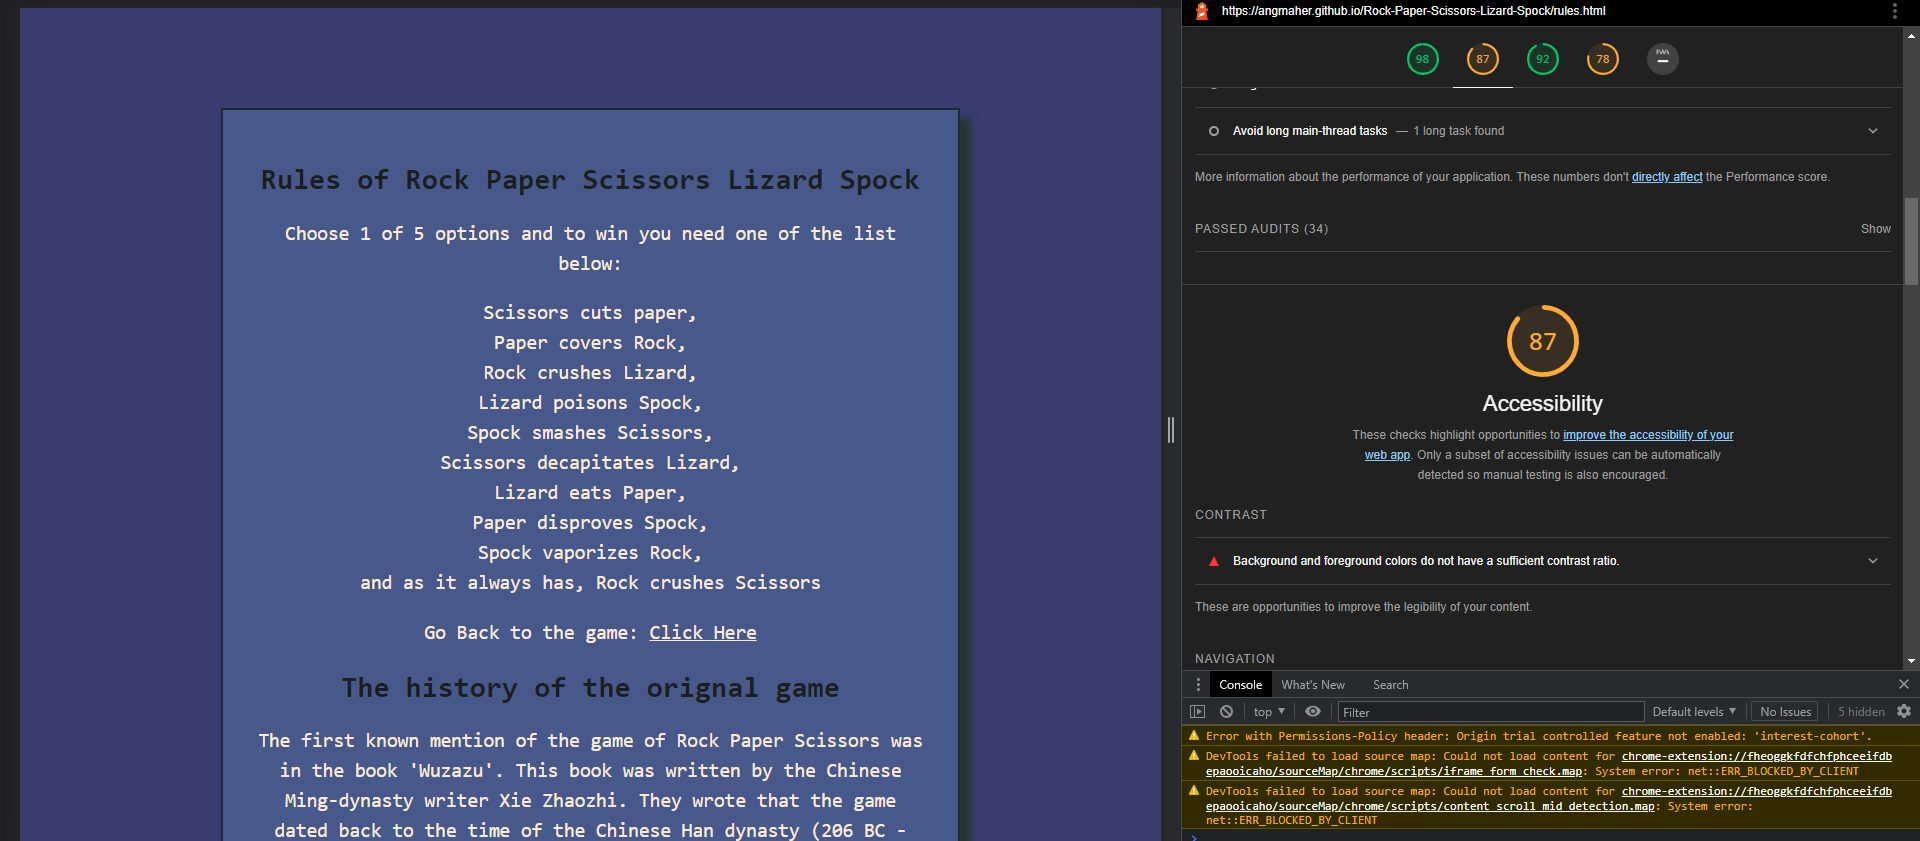
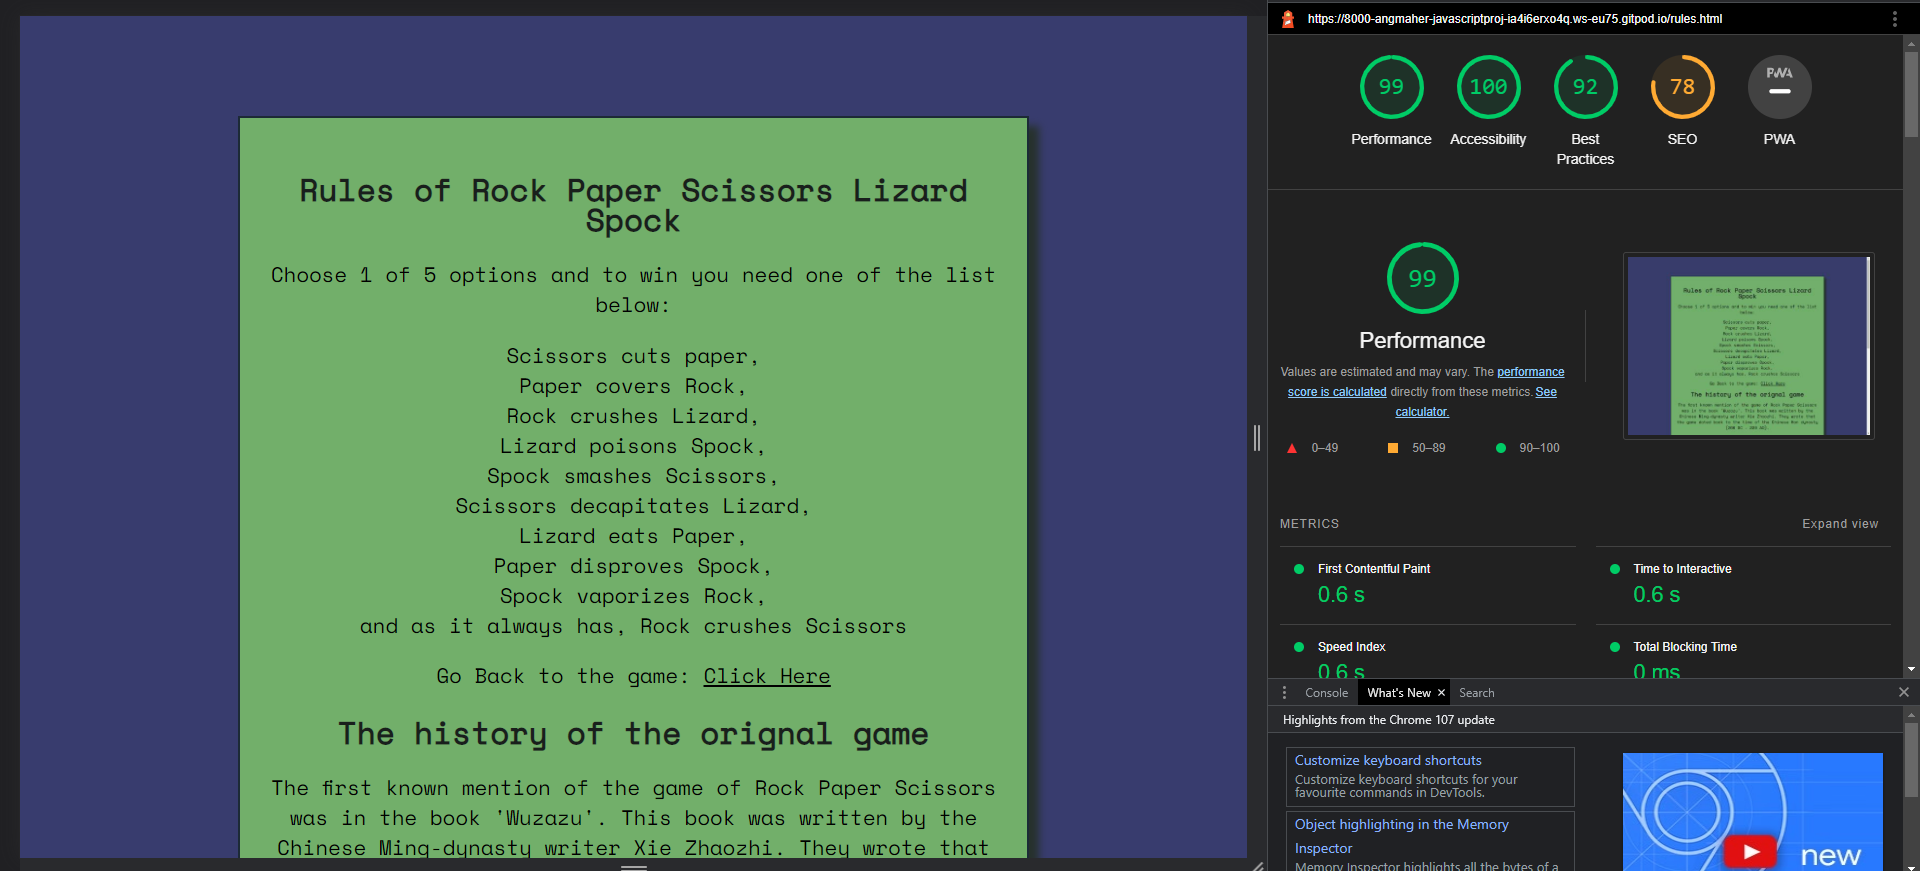
change font colour to black on rules page and background to green to receive a better lighthouse score

diff --git a/rules.html b/rules.html
@@ -19,18 +19,18 @@
             <h2>Rules of Rock Paper Scissors Lizard Spock</h2>
             <p>Choose 1 of 5 options and to win you need one of the list below:</p>
             <p>Scissors cuts paper, <br>Paper covers Rock, <br>Rock crushes Lizard, <br>Lizard poisons Spock, <br>Spock smashes Scissors, <br>Scissors decapitates Lizard, <br>Lizard eats Paper, <br>Paper disproves Spock, <br>Spock vaporizes Rock, <br>and as it always has, Rock crushes Scissors</p>
-            <p>Go Back to the game: <a id= "home-link" href="index.html">Click Here</a></p>
+            <p>Go Back to the game: <a class="home-link" href="index.html">Click Here</a></p>
 
             <h2>The history of the orignal game</h2>
             <p>The first known mention of the game of Rock Paper Scissors was in the book 'Wuzazu'. This book was written by the Chinese Ming-dynasty writer Xie Zhaozhi. They wrote that the game dated back to the time of the Chinese Han dynasty (206 BC - 220 AD).</p>
             <p>It is a hugely popular game all over the world mainly because of its simplicity. The French gave it the name Roshambo.</p>
-            <p>Go Back to the game: <a id= "home-link" href="index.html">Click Here</a></p>
+            <p>Go Back to the game: <a class="home-link" href="index.html">Click Here</a></p>
 
             <h2>Where Did Lizard Spock come from?</h2>
             <p>The Lizard, Spock was added in the TV show The Big Bang Theory</p>
 
             <iframe width="400" height="300" src="https://www.youtube.com/embed/Kov2G0GouBw" title="Rock Paper scissors  Lizard Spock" frameborder="0" allow="accelerometer; autoplay; clipboard-write; encrypted-media; gyroscope; picture-in-picture" allowfullscreen></iframe>
-            <p>Go Back to the game: <a id= "home-link" href="index.html">Click Here</a></p>
+            <p>Go Back to the game: <a class="home-link" href="index.html">Click Here</a></p>
         </div>
         <footer>Developed By Angela Maher for Code Institute's Portfolio Project 2 - 2022</footer>
 </body>

diff --git a/assets/css/style.css b/assets/css/style.css
@@ -120,7 +120,7 @@ footer{
 }
 /*Rules of the game page*/
 #rules-section{
-    background-color: #47598a;
+    background-color: rgba(126, 199, 106, 0.822);
     height: 1600px;
     width: 30%;
 
@@ -131,7 +131,7 @@ footer{
     padding: 30px;
 
     text-align: center;
-    color:antiquewhite;
+    color: black;
     font-size: 130%;
     line-height: 30px;
 
@@ -139,10 +139,10 @@ footer{
 #rules-section h2{
     color:#191f1c;
 }
-#home-link {
-    color:antiquewhite;
+.home-link {
+    color: black;
 }
-#home-link:hover{
+.home-link:hover{
     background-color: rgb(38, 49, 44, .8);
 }
 /*Media quries section*/

diff --git a/testing.md b/testing.md
@@ -33,9 +33,9 @@
 * Checked in JSHint with no errors
 
 ### Lighthouse
-* Lighthouse result for main page recieved 100%
+* Lighthouse result for main page received 100%
 ![lighthouse main page](/assets/images/readme-images/lighthouse.png)
-* Second page for the rules I recieved 87% mainly because it didnt like the idea of the box and background colour being so close, but that is actually the look I was going for.
+* Lighthouse result for Rules page received 100%. I orginally received 87% so I changed the text colour to black and the colour of the background from a paler blue to green.
 ![lighthouse rules page](/assets/images/readme-images/lighthouserules.png)
 
 ### Responsiveness Testing
